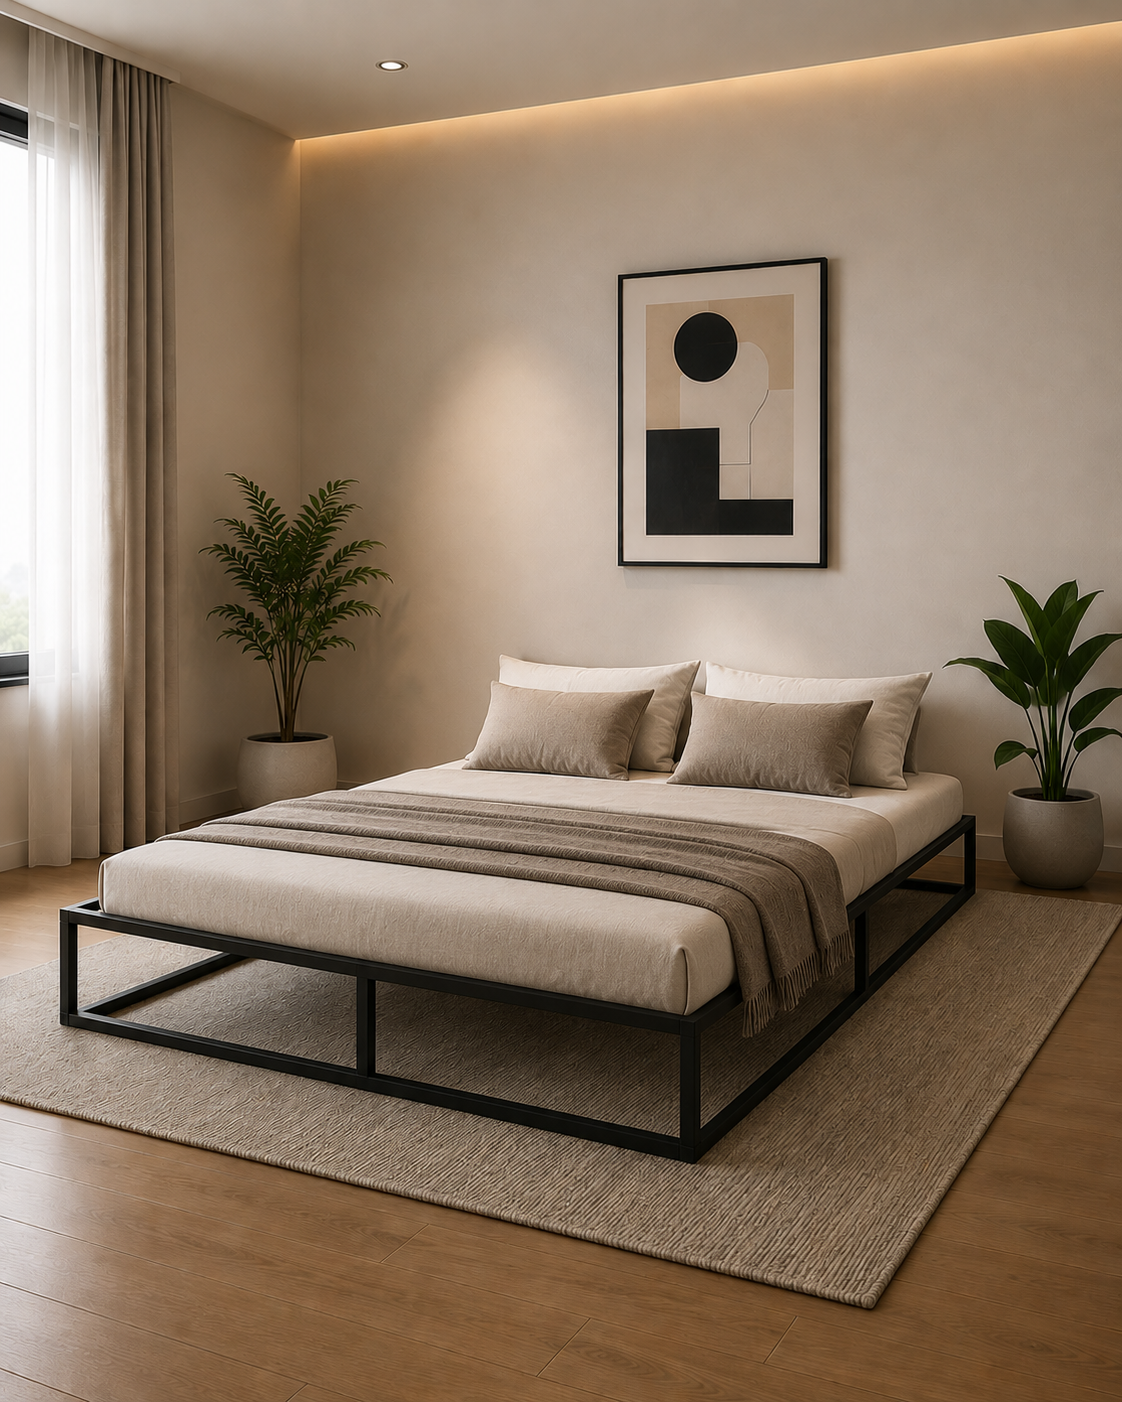
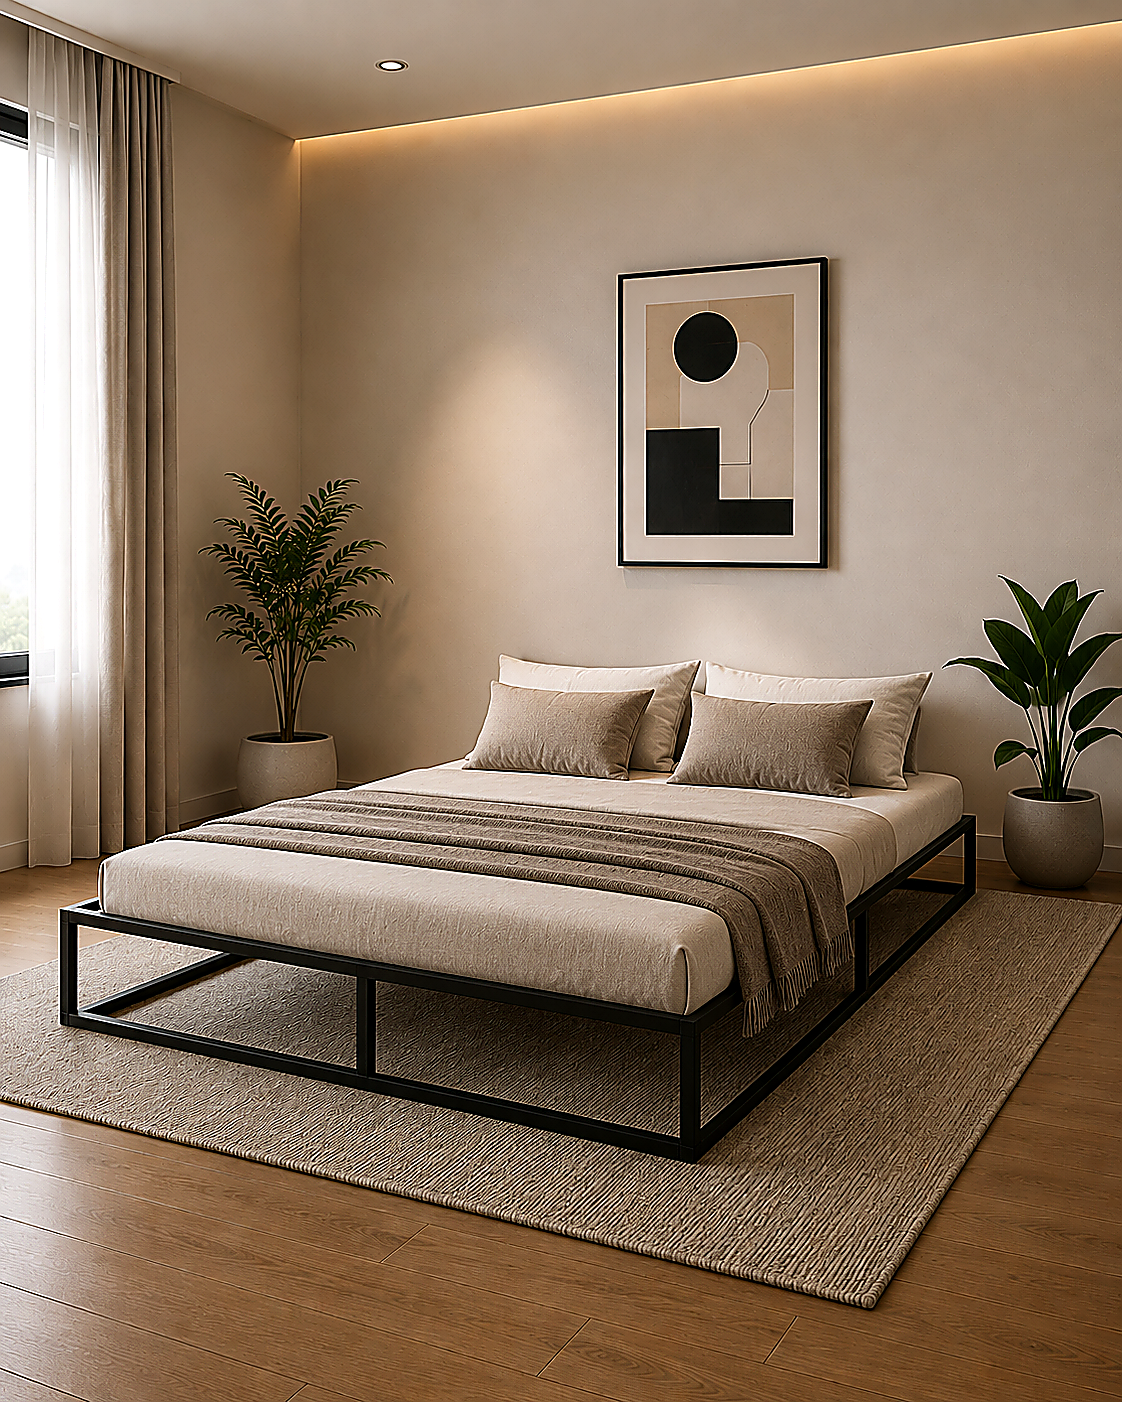
Enhance bed product card coverage and HD clarity for bed images

diff --git a/src/components/ProductDetailsModal.jsx b/src/components/ProductDetailsModal.jsx
@@ -129,7 +129,7 @@ export default function ProductDetailsModal({ product, onClose }) {
                 {product.images && product.images.length > 0 ? (
                   <>
                     <div className="pdp-image-showcase">
-                      <div style={{ position: 'relative', width: '100%', height: '100%', padding: '1rem' }}>
+                      <div style={{ position: 'relative', width: '100%', height: '100%', padding: category === 'beds' || category === 'bed' ? '0.25rem' : '1rem' }}>
                         <ProductImageMagnifier
                           src={product.images[activeImageIdx]} 
                           alt={name}
@@ -666,6 +666,7 @@ const styles = {
     width: '100px',
     height: '75px',
     objectFit: 'cover',
+    objectPosition: 'center 58%',
     padding: '0',
     backgroundColor: '#ffffff',
     borderRadius: '8px',

diff --git a/src/index.css b/src/index.css
@@ -1071,6 +1071,18 @@ svg text {
   transform: scale(1.02);
 }
 
+.beds-img-container img {
+  object-fit: cover;
+  object-position: center 58%;
+  padding: 0;
+  image-rendering: -webkit-optimize-contrast;
+  image-rendering: high-quality;
+  filter: contrast(102%) brightness(101%);
+  transform: translateZ(0);
+  -webkit-backface-visibility: hidden;
+  backface-visibility: hidden;
+}
+
 .shelves-img-container img {
   padding: 0;
   object-fit: cover;
@@ -1082,6 +1094,10 @@ svg text {
 
 .product-card-enhanced:hover .decor-img-container img {
   transform: scale(1.08);
+}
+
+.product-card-enhanced:hover .beds-img-container img {
+  transform: scale(1.05) translateZ(0);
 }
 
 .product-card-enhanced:hover .shelves-img-container img {

diff --git a/src/components/ProductCard.jsx b/src/components/ProductCard.jsx
@@ -63,7 +63,7 @@ const ProductCard = React.memo(function ProductCard({ product, onQuickView }) {
     <div className="product-card-enhanced">
       {/* Product Image Section */}
       <div 
-        className={`product-image-container ${category === 'decor' ? 'decor-img-container' : ''} ${category === 'shelves' ? 'shelves-img-container' : ''}`}
+        className={`product-image-container ${category === 'decor' ? 'decor-img-container' : ''} ${category === 'shelves' ? 'shelves-img-container' : ''} ${category === 'beds' || category === 'bed' ? 'beds-img-container' : ''}`}
         style={{ cursor: 'pointer' }}
         onClick={() => onQuickView(product)}
       >
